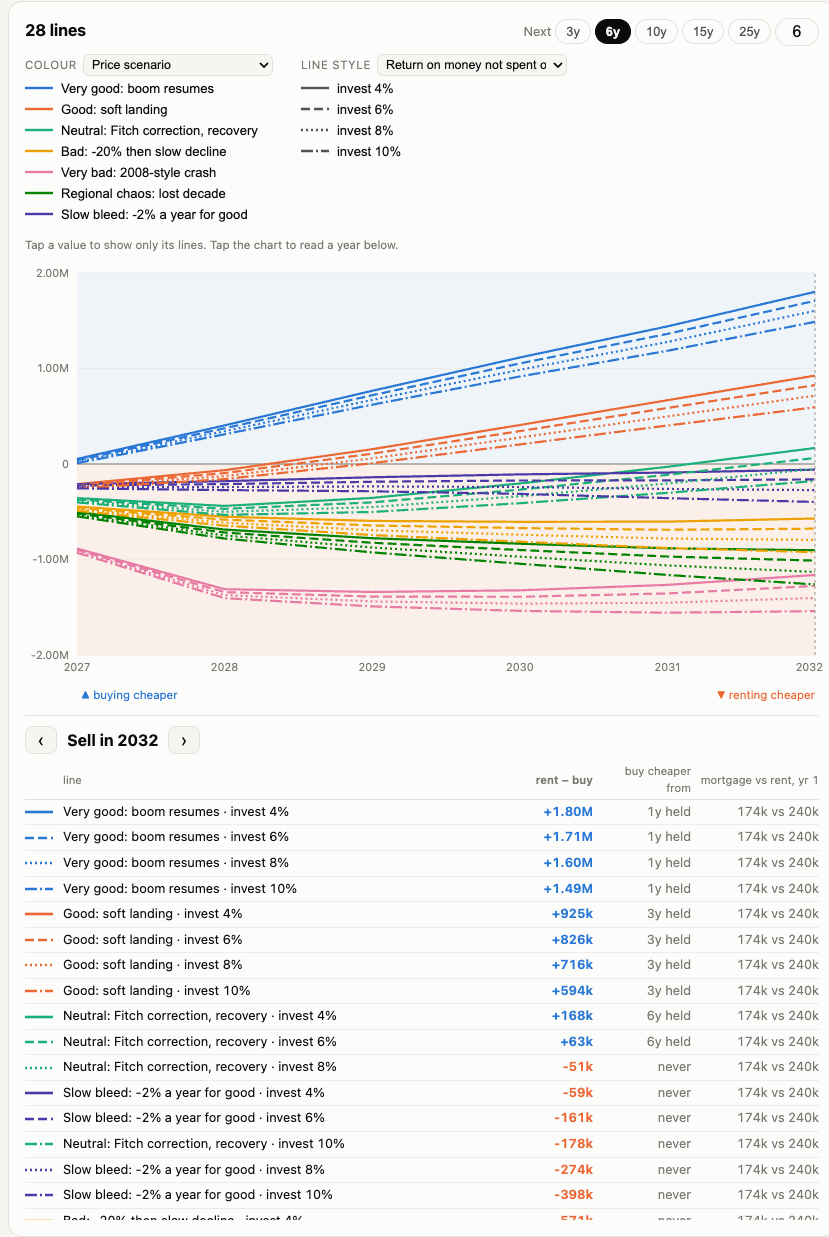
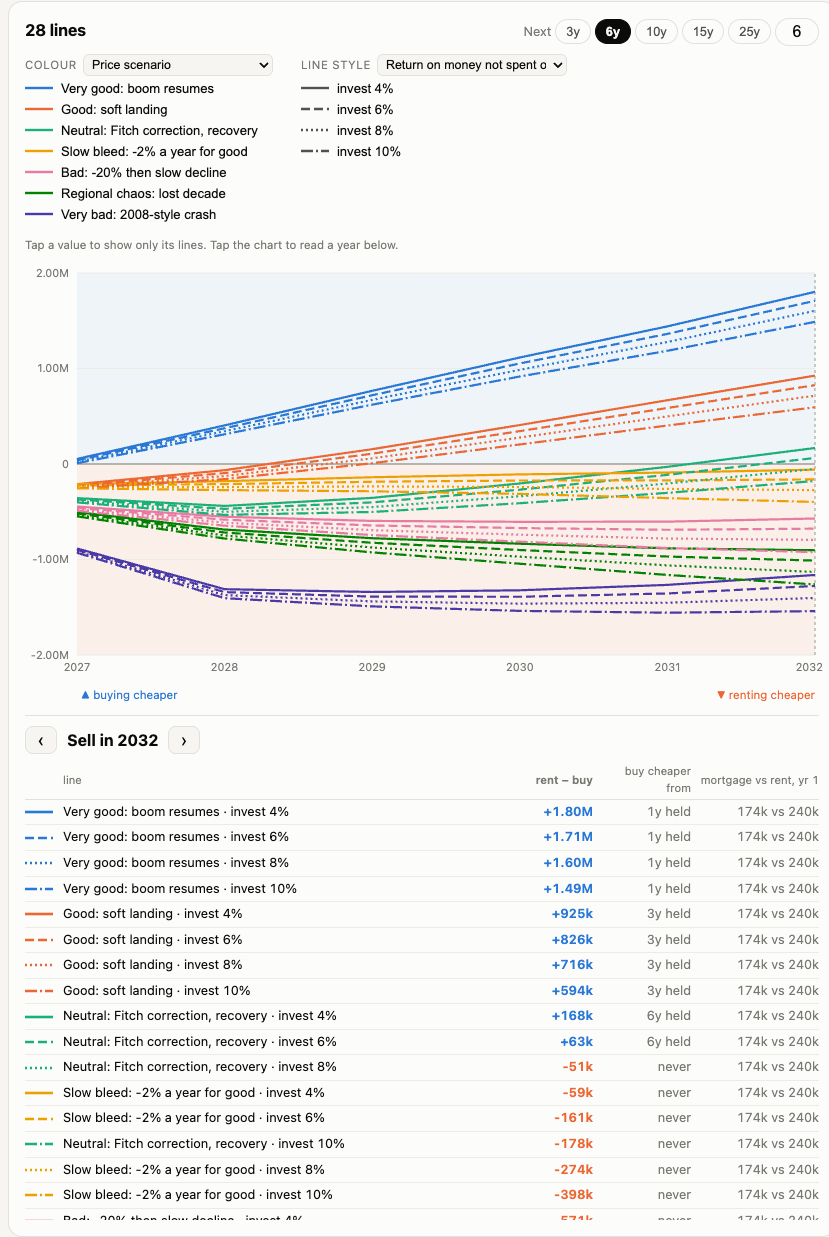
Order price scenarios from very good to very bad
Claude-Session: https://claude.ai/code/session_01SGeUVgQihc8iY5aYodmd9q

Changed region(s): [[0.0905, 0.3686, 0.9952, 0.4915], [0.0603, 0.0922, 0.3016, 0.1843], [0.0302, 0.8601, 0.0603, 0.8909]]

diff --git a/src/engine.ts b/src/engine.ts
@@ -97,14 +97,14 @@ export const SCENARIOS: Scenario[] = [
     path: [-0.07, -0.06, 0.0, 0.03, 0.04, 0.04], tail: 0.03,
   },
   {
+    key: 'bleed', label: 'Slow bleed: -2% a year for good',
+    note: 'No crash, just a long structural decline (oversupply that never clears). About -11% in 6 years.',
+    path: [], tail: -0.02,
+  },
+  {
     key: 'bad', label: 'Bad: -20% then slow decline',
     note: 'Like 2014-2020: a 20% fall over 3 years, then years of drift lower before a weak recovery. About -25% in 6 years.',
     path: [-0.1, -0.07, -0.05, -0.03, -0.02, -0.01, 0.0, 0.01, 0.02], tail: 0.025,
-  },
-  {
-    key: 'veryBad', label: 'Very bad: 2008-style crash',
-    note: 'Prices fall ~45% within 2 years, then a slow rebuild. Still about -39% after 6 years.',
-    path: [-0.25, -0.22, -0.04, 0.0, 0.03, 0.05, 0.06, 0.06], tail: 0.04,
   },
   {
     key: 'chaos', label: 'Regional chaos: lost decade',
@@ -112,9 +112,9 @@ export const SCENARIOS: Scenario[] = [
     path: [-0.12, -0.1, -0.07, -0.05, -0.04, -0.03, -0.02, -0.01, -0.01, 0.0], tail: 0.01,
   },
   {
-    key: 'bleed', label: 'Slow bleed: -2% a year for good',
-    note: 'No crash, just a long structural decline (oversupply that never clears). About -11% in 6 years.',
-    path: [], tail: -0.02,
+    key: 'veryBad', label: 'Very bad: 2008-style crash',
+    note: 'Prices fall ~45% within 2 years, then a slow rebuild. Still about -39% after 6 years.',
+    path: [-0.25, -0.22, -0.04, 0.0, 0.03, 0.05, 0.06, 0.06], tail: 0.04,
   },
   {
     key: 'trend', label: 'Constant trend (your %)',

diff --git a/src/config.ts b/src/config.ts
@@ -98,7 +98,7 @@ export const DEFAULT_CONFIG: Config = {
     investReturn: [0.04, 0.06, 0.08, 0.1],
   },
   emirates: ['DXB'],
-  cycles: ['veryGood', 'good', 'neutral', 'bad', 'veryBad', 'chaos', 'bleed'],
+  cycles: ['veryGood', 'good', 'neutral', 'bleed', 'bad', 'chaos', 'veryBad'],
   emFees: Object.fromEntries(
     EMIRATES.map((e) => [e, Object.fromEntries(EM_FIELDS.map((f) => [f.key, ({ ...P, ...PRESETS[e] } as Record<string, number>)[f.key]]))]),
   ) as Record<Emirate, Record<string, number>>,
@@ -121,7 +121,7 @@ export function dims(c: Config): Dim[] {
   return [
     ...FIELDS.map((f) => ({ key: f.key, label: f.label, values: c.lists[f.key], tag: (v: number | string) => f.tag(v as number) })),
     { key: 'emirate', label: 'Emirate', values: c.emirates, tag: (v: number | string) => EM_LABEL[v as Emirate] },
-    { key: 'cycle', label: 'Price scenario', values: c.cycles, tag: (v: number | string) => CYCLES.find((s) => s.key === v)!.label },
+    { key: 'cycle', label: 'Price scenario', values: CYCLES.map((x) => x.key).filter((k) => c.cycles.includes(k)), tag: (v: number | string) => CYCLES.find((s) => s.key === v)!.label },
   ];
 }
 
